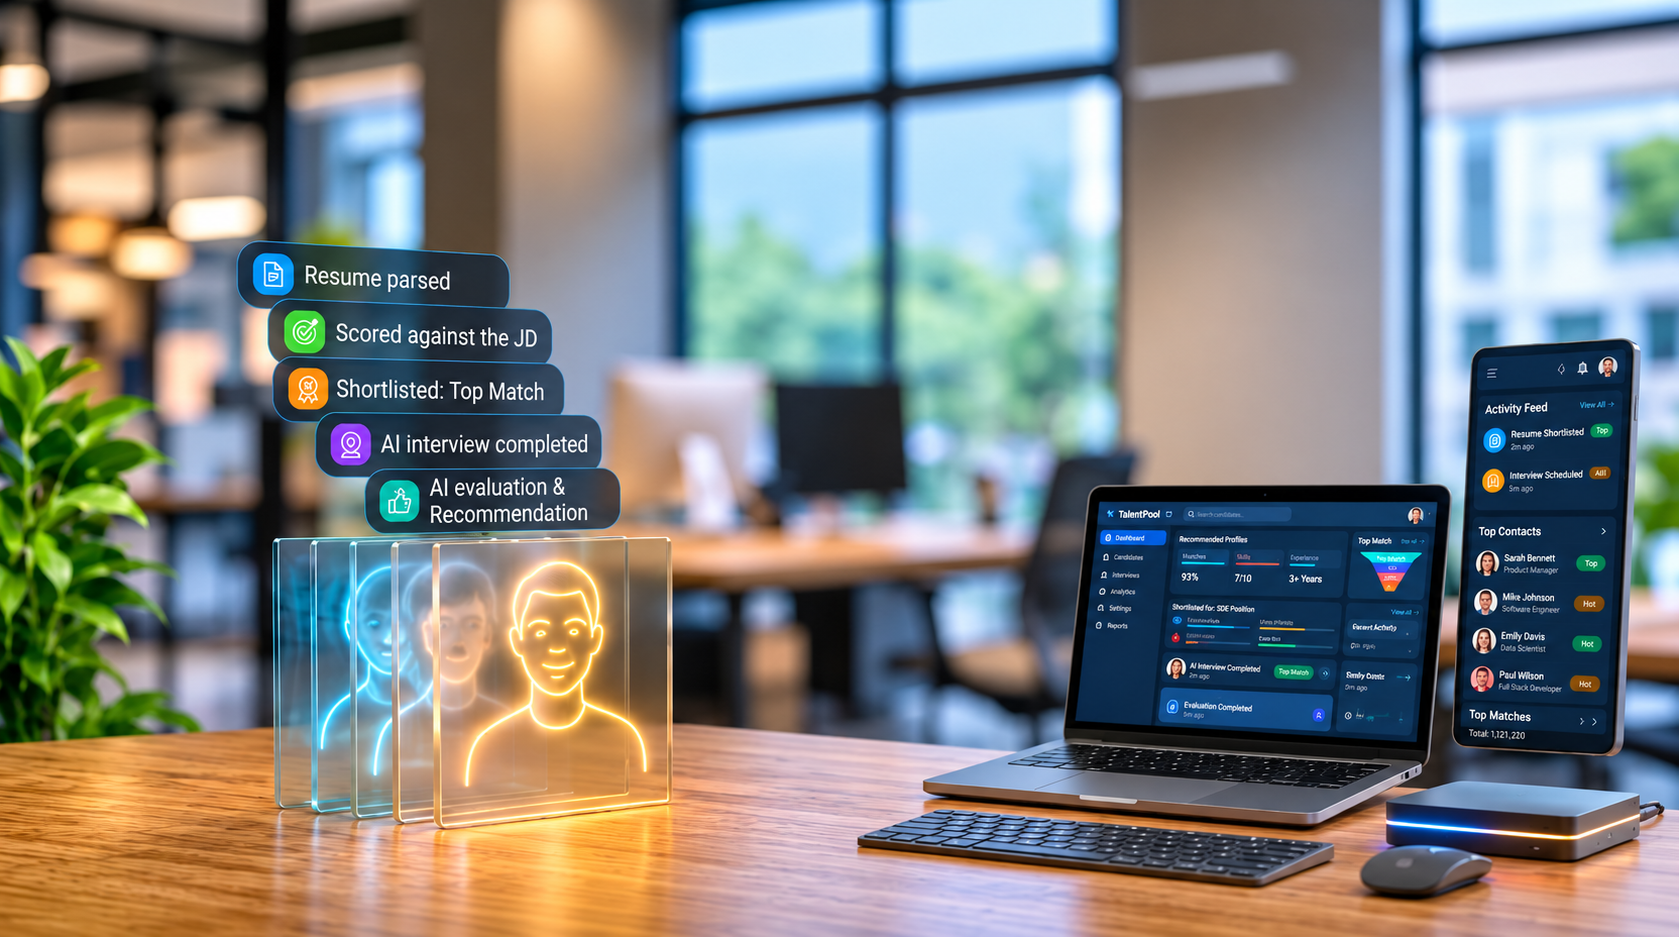
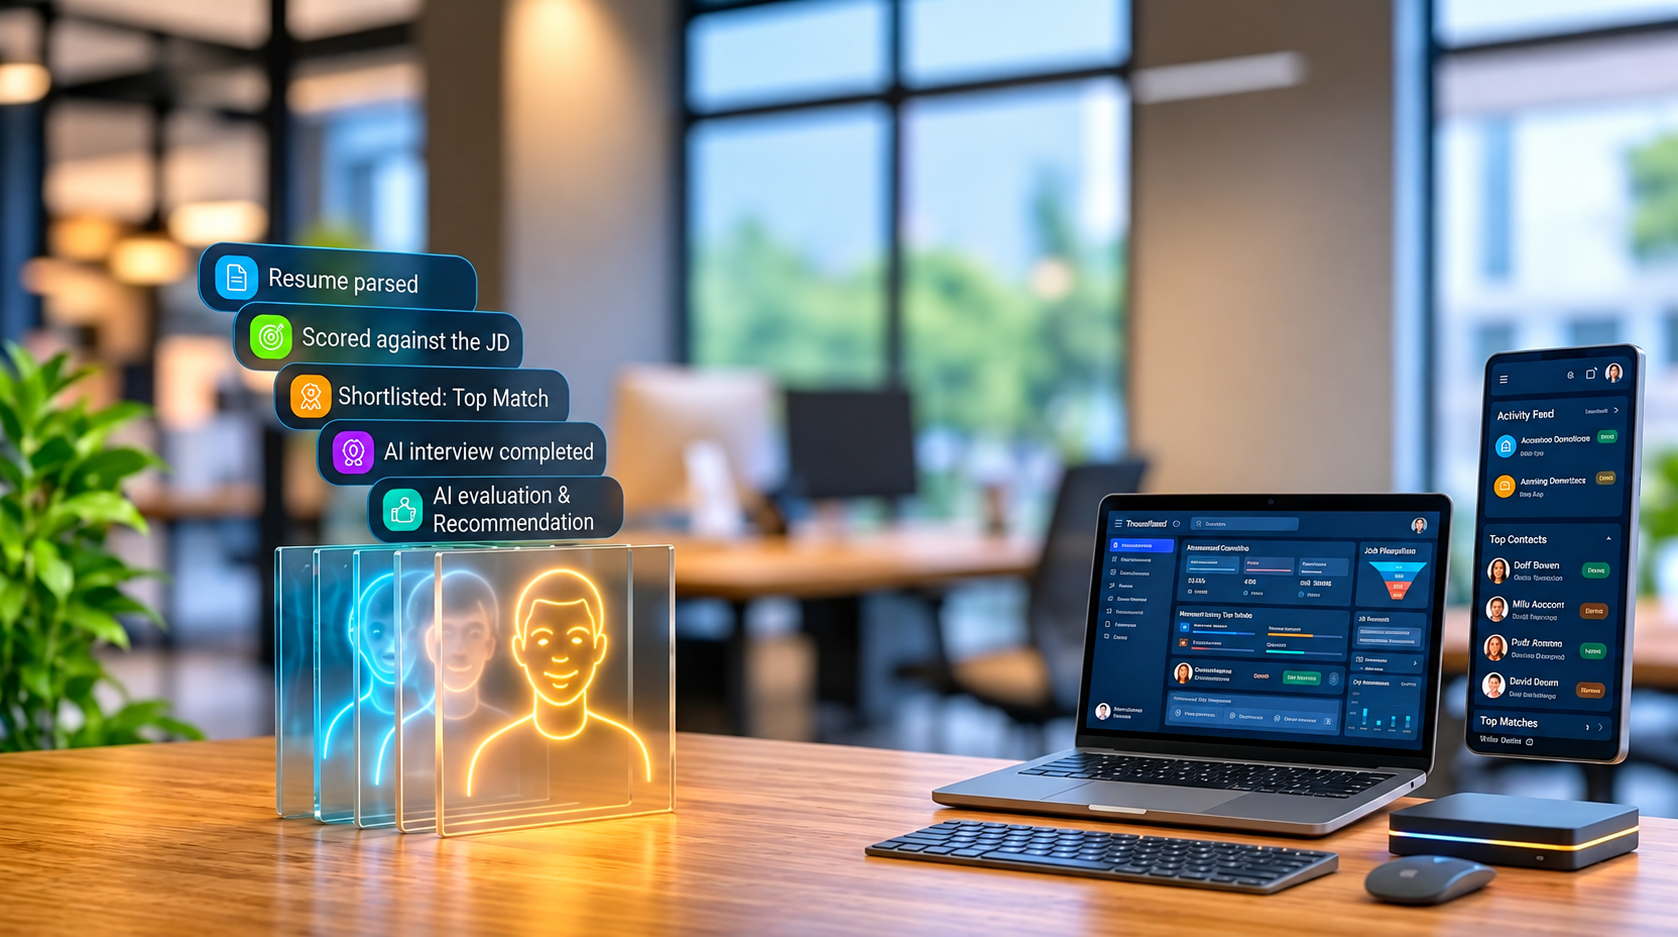
chore: update hero-aurevia-bg.png background image

diff --git a/src/components/Hero.tsx b/src/components/Hero.tsx
@@ -44,8 +44,8 @@ export function Hero() {
         className="hero-bg"
         src={bgImage}
         alt=""
-        width={2752}
-        height={1536}
+        width={1678}
+        height={937}
         decoding="sync"
         fetchPriority="high"
         aria-hidden="true"
